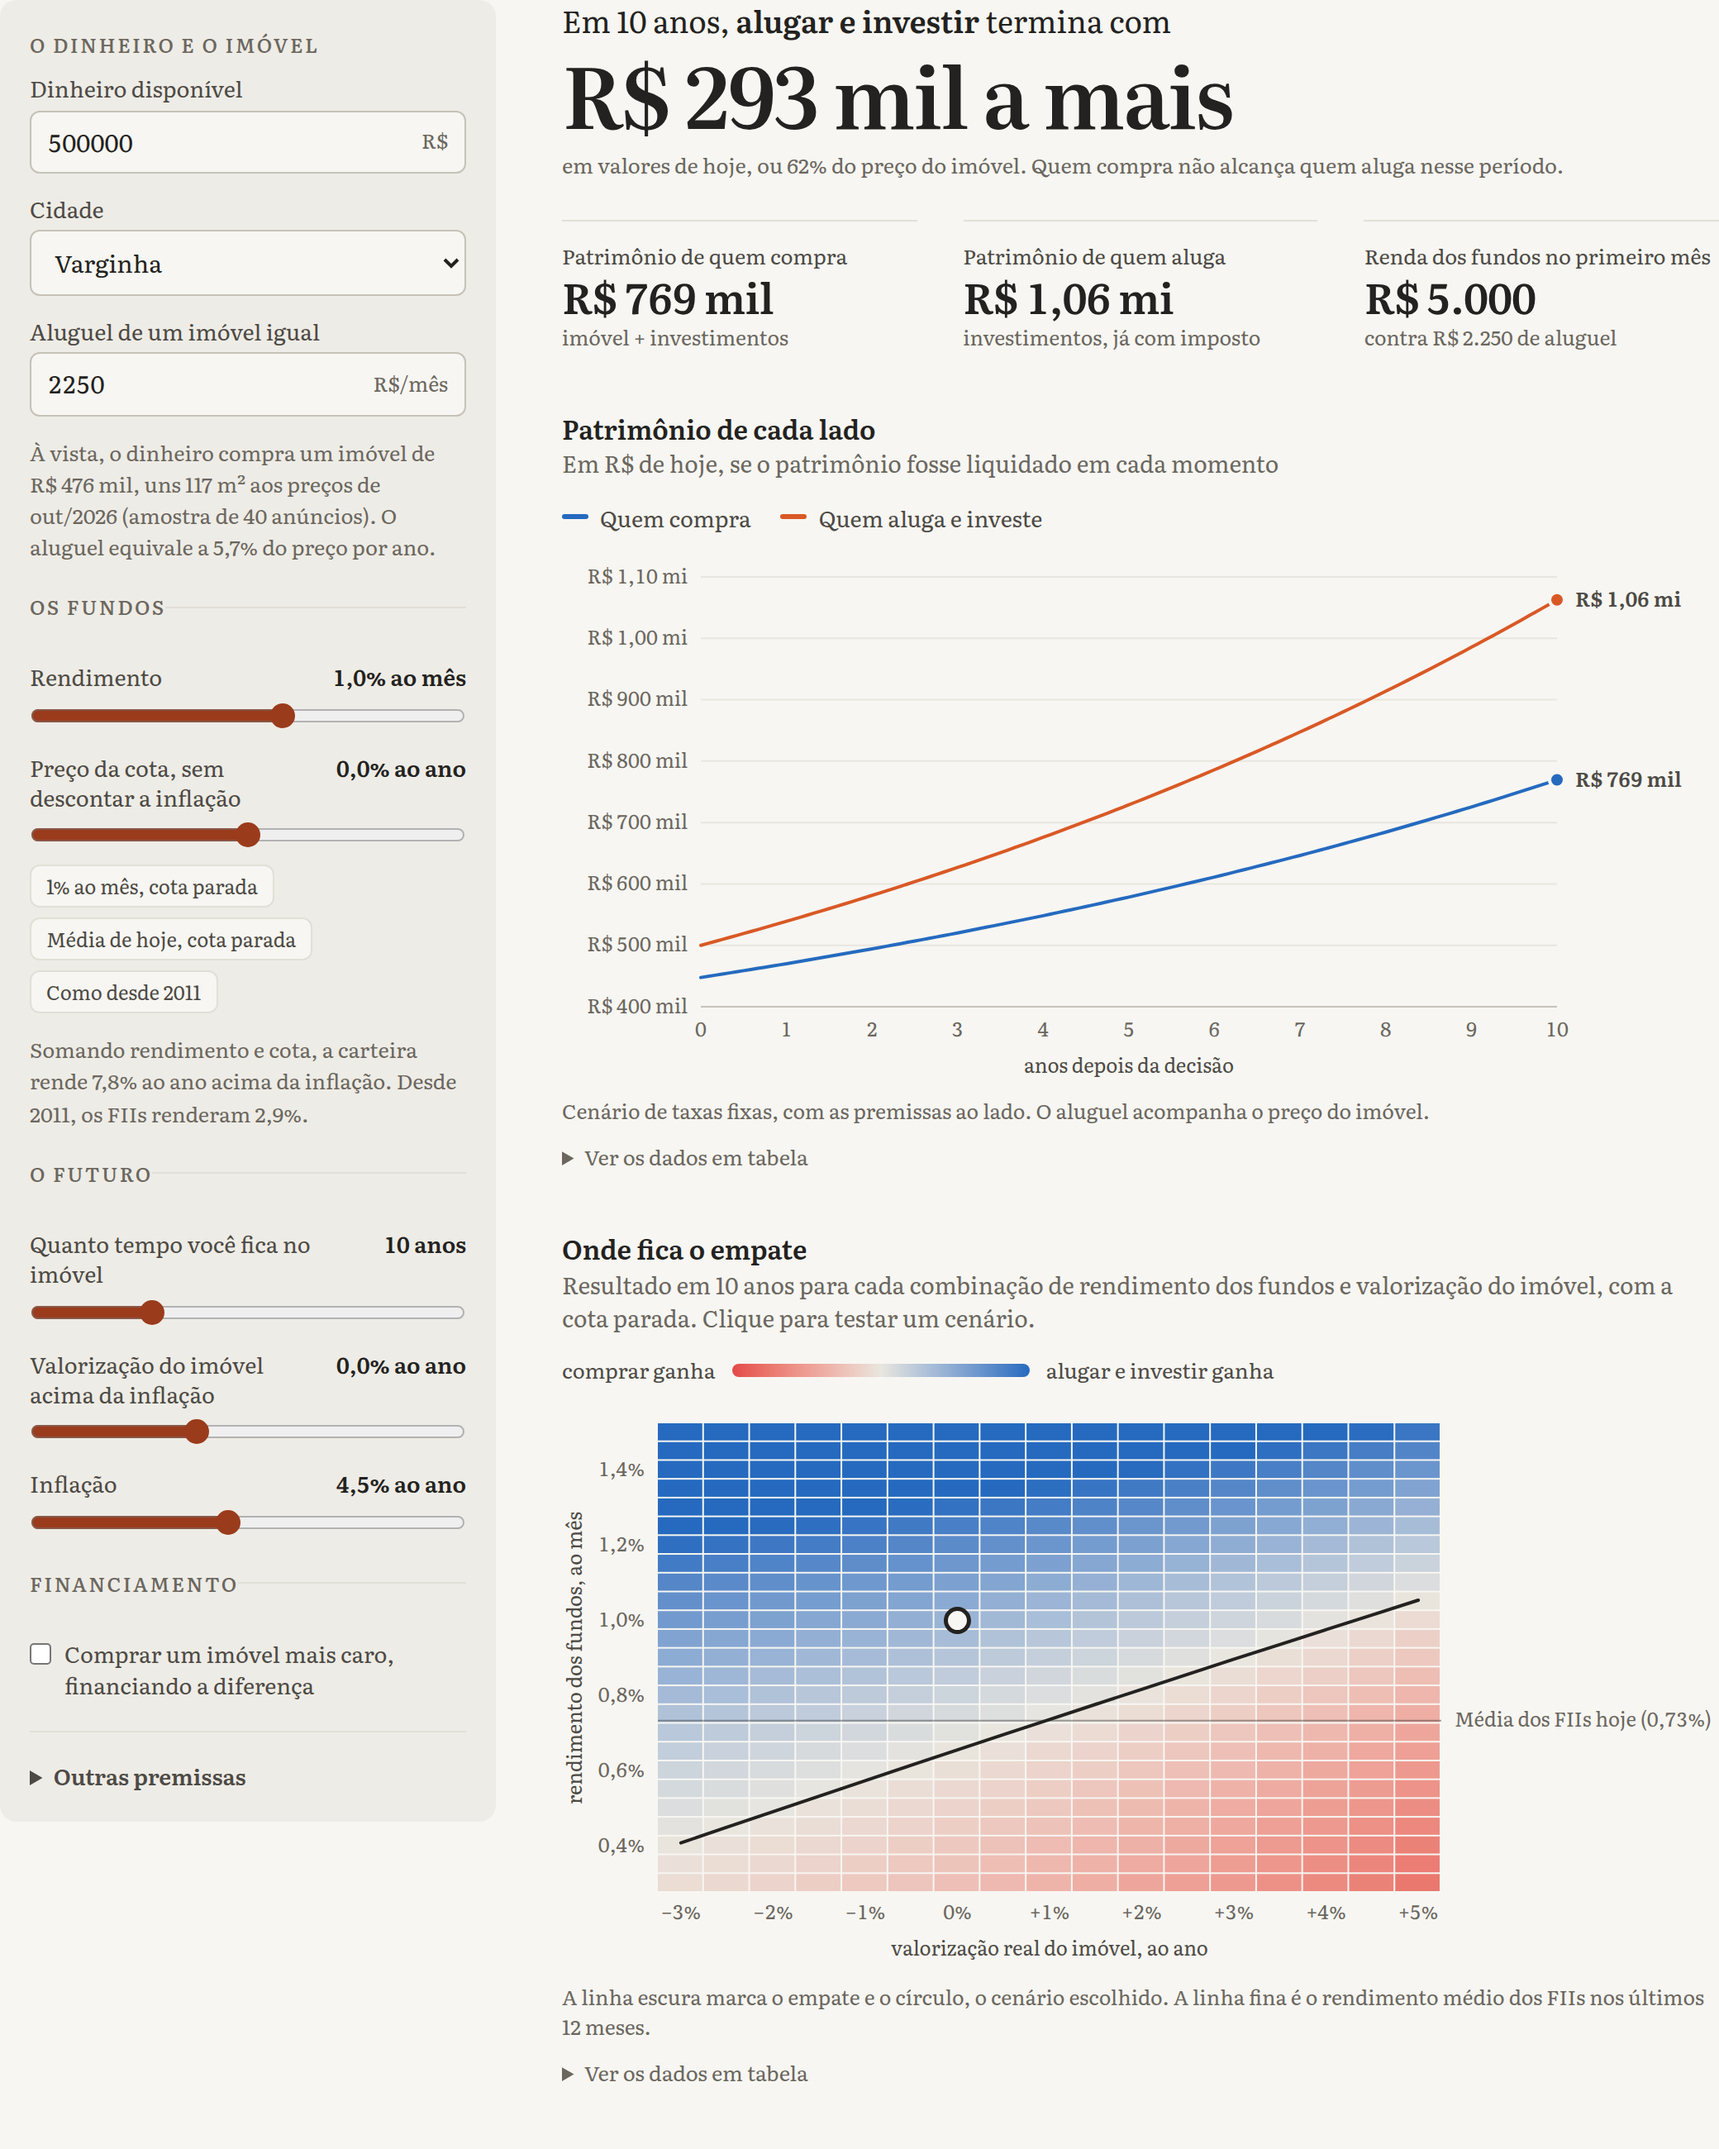
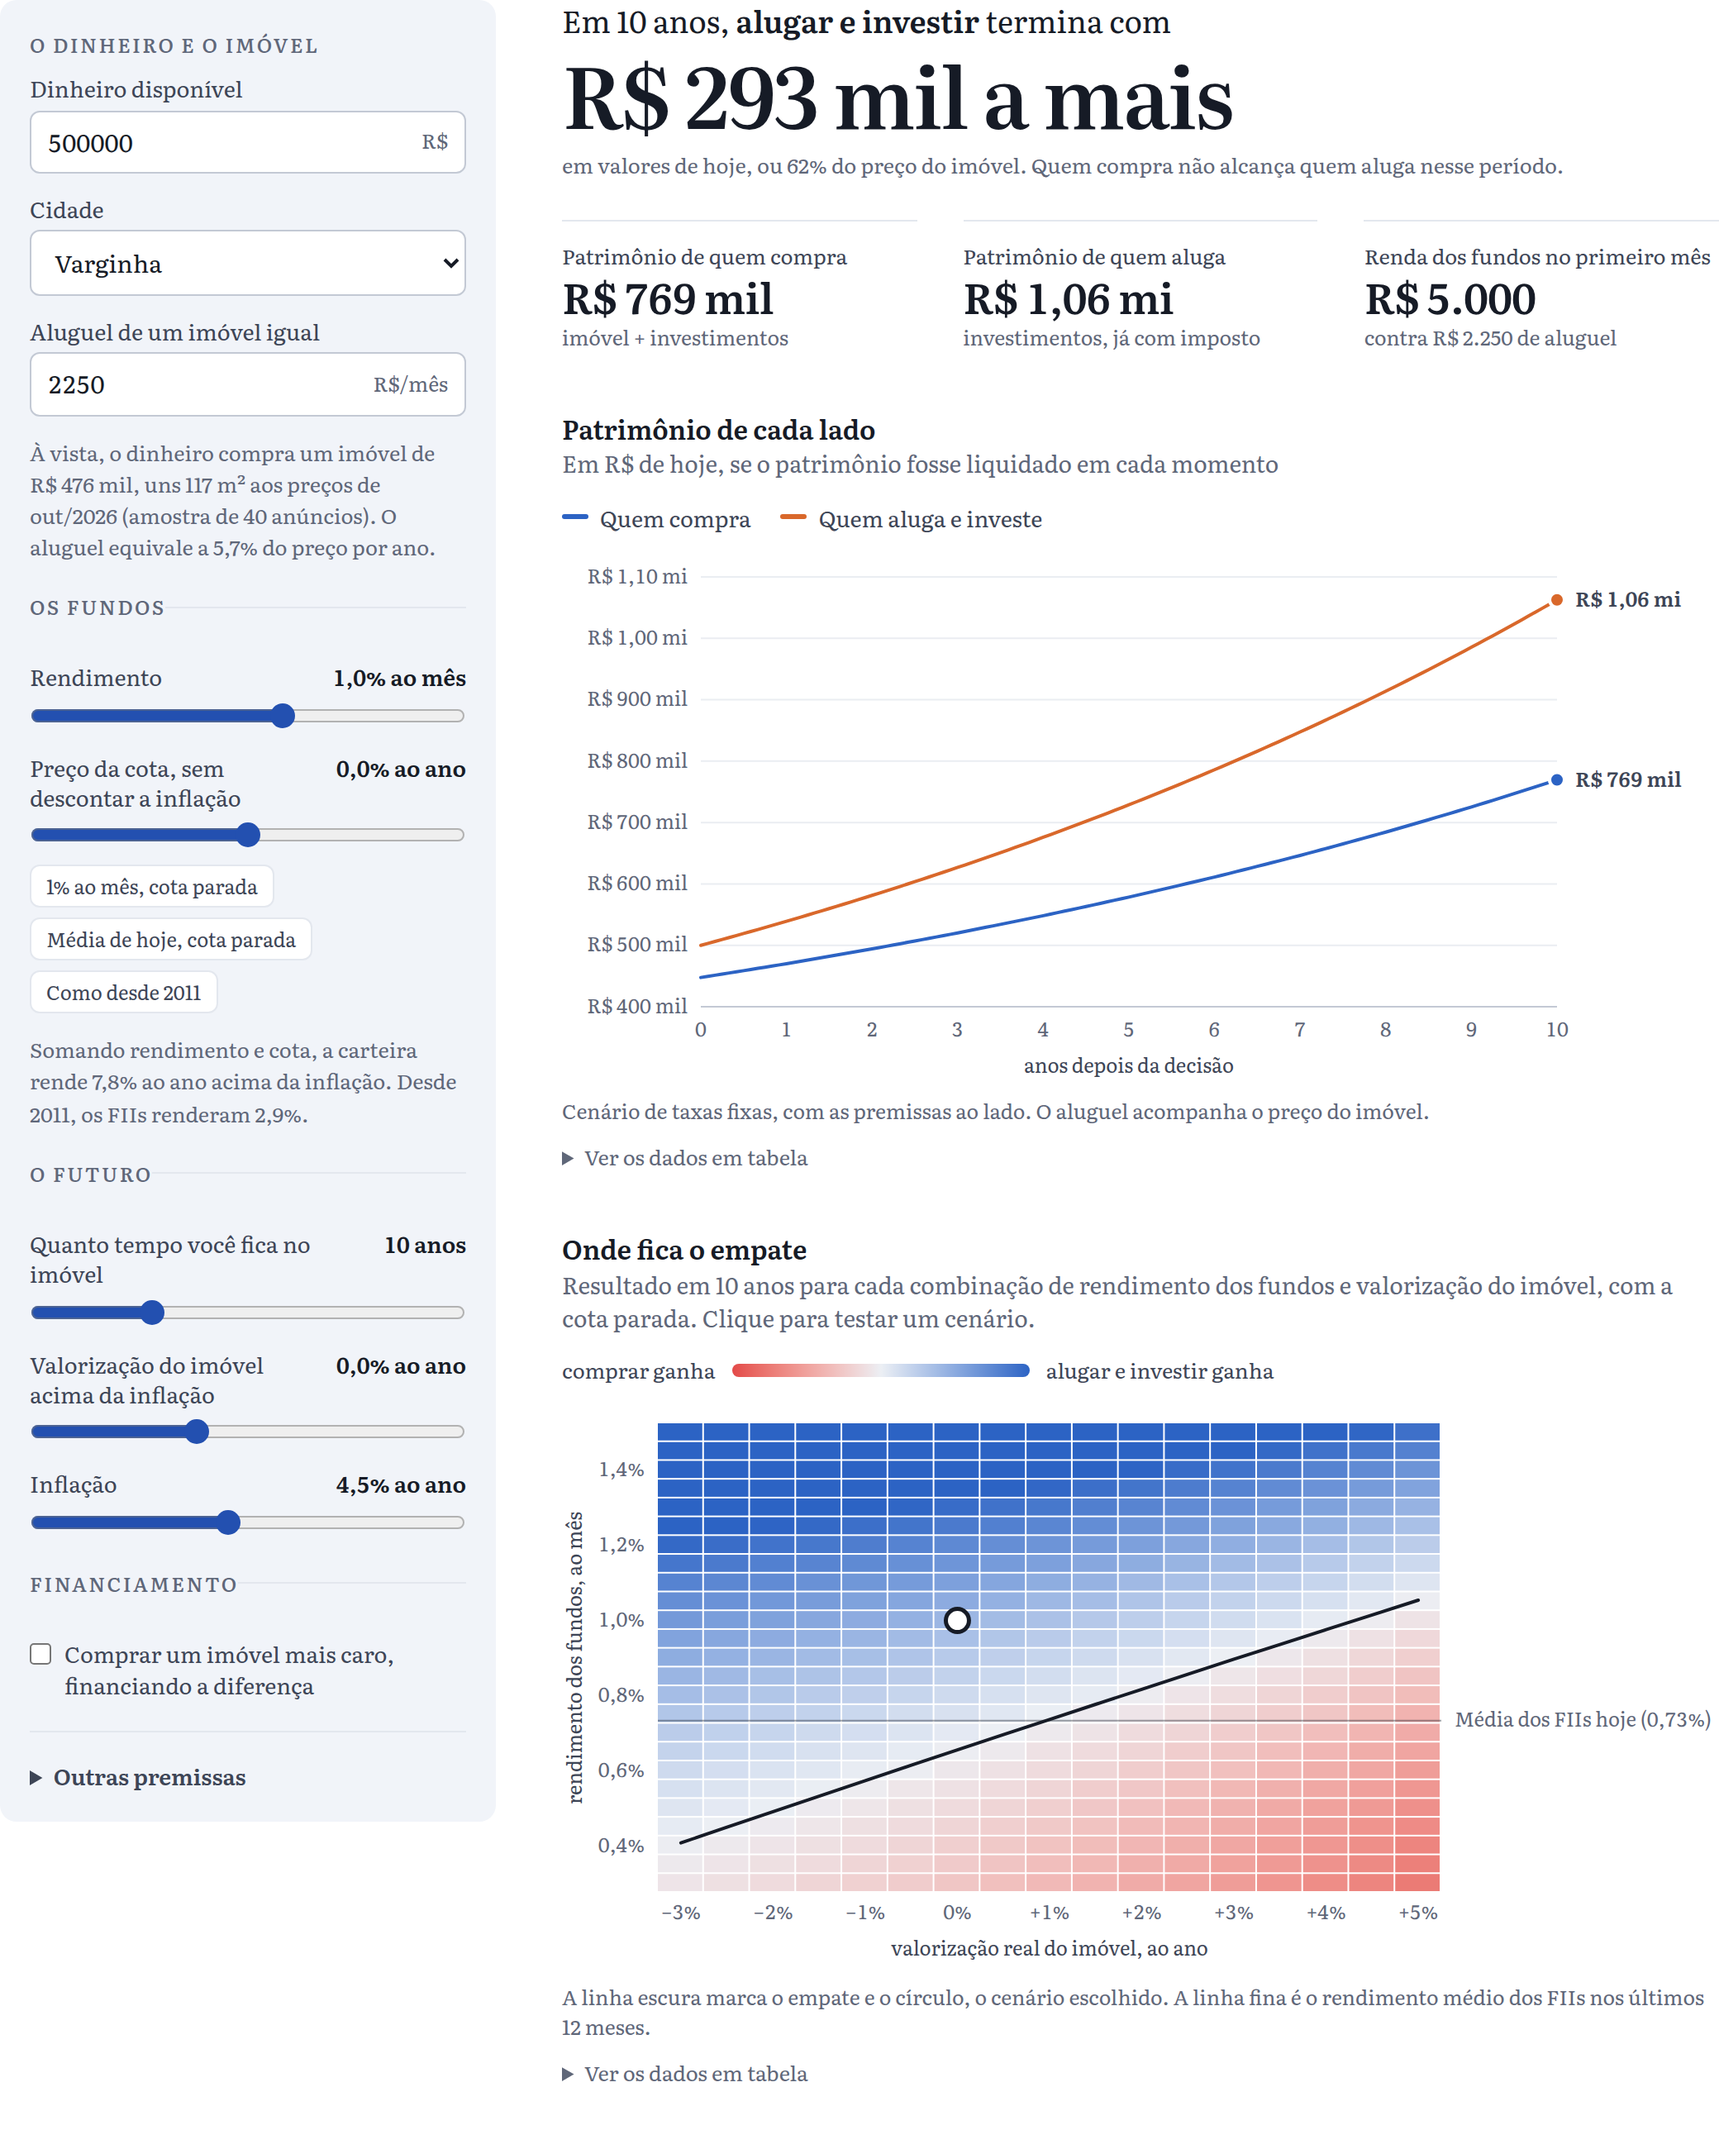
Troca a paleta do artigo pela "B2": branco e azul-royal
Entre as variações da paleta azul, o Igor escolheu a B2.

- claro: fundo branco, textos azul-acinzentados e destaque azul-royal
- escuro: fundo azul quase preto e destaque azul-claro
- séries dos gráficos em tons que combinam com a paleta, validadas para
  daltonismo nos dois fundos; contraste dos textos conferido
- CLAUDE.md e capturas do README atualizados

Claude-Session: https://claude.ai/code/session_01QdopxLRuX8CaTnJjxbJBTM

diff --git a/site/src/index.css b/site/src/index.css
@@ -1,26 +1,26 @@
 /* ---------- Cores ---------- */
-/* Um livro na tela: fundo quase branco, serifa feita para leitura longa, cor só nos
-   gráficos, nos links e nos detalhes em tom de tijolo. As cores das séries passaram
-   no validador de daltonismo sobre os dois fundos; o tema escuro usa passos próprios
-   das mesmas cores, não uma inversão. */
+/* Um livro na tela: fundo branco, serifa feita para leitura longa, cor só nos
+   gráficos, nos links e nos detalhes em azul-royal (a paleta "B2"). As cores das
+   séries passaram no validador de daltonismo sobre os dois fundos; o tema escuro
+   usa passos próprios das mesmas cores, não uma inversão. */
 :root {
-  --fundo: #f7f6f2;
-  --superficie: #eeece6;
-  --texto: #232220;
-  --texto-2: #4d4a45;
-  --suave: #6b675f;
-  --fio: #e2dfd7;
-  --grade: #e9e6df;
-  --eixo: #c6c2b8;
-  --destaque: #9a3b1c;
-  --serie-1: #256abf;
-  --serie-2: #d95926;
-  --serie-3: #199e70;
+  --fundo: #ffffff;
+  --superficie: #f1f4f9;
+  --texto: #161b26;
+  --texto-2: #3d4556;
+  --suave: #5f6779;
+  --fio: #e3e7ee;
+  --grade: #eaedf2;
+  --eixo: #c3c9d4;
+  --destaque: #2350b0;
+  --serie-1: #2c63c4;
+  --serie-2: #d9682b;
+  --serie-3: #14937a;
   --serie-4: #c98500;
-  --contexto: #b0aca3;
-  --div-azul: #256abf;
+  --contexto: #b3b9c4;
+  --div-azul: #2c63c4;
   --div-vermelho: #e34948;
-  --div-neutro: #e9e6df;
+  --div-neutro: #eceff4;
   --sombra: rgb(0 0 0 / 0.12);
   --fonte: 'Literata Variable', Georgia, 'Times New Roman', serif;
   --largura: 720px;
@@ -29,46 +29,46 @@
 
 @media (prefers-color-scheme: dark) {
   :root:not([data-theme='light']) {
-    --fundo: #171615;
-    --superficie: #201f1d;
-    --texto: #ebe7df;
-    --texto-2: #c9c4ba;
-    --suave: #9a958b;
-    --fio: #2f2d29;
-    --grade: #282624;
-    --eixo: #4c4943;
-    --destaque: #e5a07f;
-    --serie-1: #3987e5;
-    --serie-2: #d95926;
-    --serie-3: #199e70;
+    --fundo: #0f1218;
+    --superficie: #171b23;
+    --texto: #eceff4;
+    --texto-2: #c3c9d4;
+    --suave: #8f97a6;
+    --fio: #262c37;
+    --grade: #1f242d;
+    --eixo: #465062;
+    --destaque: #8fb0f2;
+    --serie-1: #4a8be8;
+    --serie-2: #d9682b;
+    --serie-3: #1aa386;
     --serie-4: #c98500;
-    --contexto: #5f5b54;
-    --div-azul: #3987e5;
+    --contexto: #5a6273;
+    --div-azul: #4a8be8;
     --div-vermelho: #e66767;
-    --div-neutro: #2d2b28;
+    --div-neutro: #232833;
     --sombra: rgb(0 0 0 / 0.5);
     color-scheme: dark;
   }
 }
 
 :root[data-theme='dark'] {
-  --fundo: #171615;
-  --superficie: #201f1d;
-  --texto: #ebe7df;
-  --texto-2: #c9c4ba;
-  --suave: #9a958b;
-  --fio: #2f2d29;
-  --grade: #282624;
-  --eixo: #4c4943;
-  --destaque: #e5a07f;
-  --serie-1: #3987e5;
-  --serie-2: #d95926;
-  --serie-3: #199e70;
+  --fundo: #0f1218;
+  --superficie: #171b23;
+  --texto: #eceff4;
+  --texto-2: #c3c9d4;
+  --suave: #8f97a6;
+  --fio: #262c37;
+  --grade: #1f242d;
+  --eixo: #465062;
+  --destaque: #8fb0f2;
+  --serie-1: #4a8be8;
+  --serie-2: #d9682b;
+  --serie-3: #1aa386;
   --serie-4: #c98500;
-  --contexto: #5f5b54;
-  --div-azul: #3987e5;
+  --contexto: #5a6273;
+  --div-azul: #4a8be8;
   --div-vermelho: #e66767;
-  --div-neutro: #2d2b28;
+  --div-neutro: #232833;
   --sombra: rgb(0 0 0 / 0.5);
   color-scheme: dark;
 }

diff --git a/CLAUDE.md b/CLAUDE.md
@@ -11,10 +11,11 @@ resume os achados e o METODOLOGIA.md explica premissas e limitações. Tudo em p
 - **Nada é publicado sem a confirmação explícita dele.** Tornar o repositório público, fazer deploy na Cloudflare
   ou criar workflow de deploy só depois de ele testar e dizer que pode. O repositório nasceu privado por isso.
 - **A página é um artigo com cara de livro** (desenho "B", escolhido por ele em 04/10/2026 entre seis versões da
-  abertura): uma coluna de leitura de 720 px, tema claro (fundo `#f7f6f2`, um pouco mais escuro que o branco, a
-  pedido dele) e escuro (segue o sistema, com botão para trocar), uma família de letras só, a serifa Literata,
-  subtítulo em itálico, primeira letra grande no primeiro parágrafo, sem molduras, e cor só nos gráficos, nos links
-  e nos detalhes em tom de tijolo. O texto avança em **sete perguntas encadeadas**, para o leitor ir entendendo aos poucos;
+  abertura): uma coluna de leitura de 720 px, tema claro e escuro (segue o sistema, com botão para trocar), uma
+  família de letras só, a serifa Literata, subtítulo em itálico, primeira letra grande no primeiro parágrafo, sem
+  molduras, e cor só nos gráficos, nos links e nos detalhes. A paleta é a **"B2"** (fundo branco `#ffffff` e
+  destaque azul-royal `#2350b0`; no escuro, fundo `#0f1218` e destaque `#8fb0f2`), escolhida por ele entre várias
+  propostas; antes era um tom de tijolo sobre fundo `#f7f6f2`. O texto avança em **sete perguntas encadeadas**, para o leitor ir entendendo aos poucos;
   ele não quer "respostas curtas" soltas no topo. **Cada pergunta termina com "Fontes e método"**, com links para os
   dados e para o notebook ou código da análise (`site/src/fontes.ts`; os links do repositório apontam para `main`).
   Antes disso a página teve um visual de jornal e um de planta baixa, que ele trocou; ele também já rejeitou um
@@ -69,8 +70,8 @@ restrita esses downloads podem falhar, e aí vale usar o que já está no reposi
   outubro de 2026 e precisa ser revisto se os dados forem atualizados.
 - **Notebooks são gerados executados.** Depois de mudar código usado por eles, rode
   `uv run jupyter nbconvert --to notebook --execute --inplace notebooks/*.ipynb`.
-- **Cores dos gráficos.** As séries usam uma paleta validada para daltonismo sobre os fundos claro (`#f7f6f2`) e
-  escuro (`#171615`) da página, com passos próprios em cada tema (variáveis `--serie-*` em `site/src/index.css`;
+- **Cores dos gráficos.** As séries usam uma paleta validada para daltonismo sobre os fundos claro (`#ffffff`) e
+  escuro (`#0f1218`) da página, com passos próprios em cada tema (variáveis `--serie-*` em `site/src/index.css`;
   nos notebooks, `estilo.py`). Cada cidade e cada ativo tem
   sempre a mesma cor. Não troque cores no olho.
 - Taxas em fração (`0.005` = 0,5%) e datas mensais no primeiro dia do mês, em todo o código Python.
